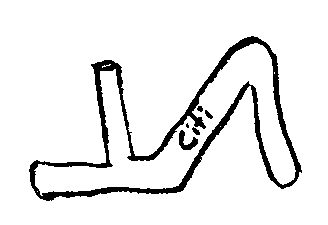
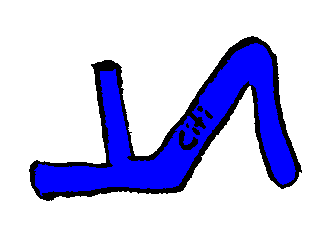
frame cleanup and finish labeling

Changed region(s): [[0.0915, 0.1867, 0.9146, 0.8711]]

diff --git a/bike.ts b/bike.ts
@@ -132,6 +132,8 @@ You can also buy cranks that double as a power meter if you want to know how muc
 const FRAME_DESCRIPTION = `
 The frame is the foundation of a bike: it's the most expensive part, affects the overall weight of the bike the most, and also sets the tone for compatibility with every other part.
 
+They come in many, many different geometries, but most frames have the same two-triangle structure to help distribute forces throughout the bike.
+
 New frames are usually aluminum alloy or carbon fibre, though some older bike frames were made of steel. Most brands have different tiers of carbon fibre at different price points and weights.
 
 Frames dictate the type of brakes used, the wheel attachment, the fork diameter and attachment style, the seatpost size, and even the bottom bracket and cranks.
@@ -515,13 +517,7 @@ function drawLabel(ctx: CanvasRenderingContext2D, labelText: string) {
     const y = 10
     ctx.fillStyle = "rgb(255,255,255)"
     ctx.fillRect(x, y, 260, 50)
-    if (false) {
-        // bottom bracket: no state
-        // process extra parts so we can label them
-        // frames
-        // cleats & pedals
-        // brake parts
-    } else if (labelText === "bearing" && LABELS.bearing) {
+    if (labelText === "bearing" && LABELS.bearing) {
         ctx.drawImage(LABELS.bearing, x, y)
     } else if (labelText === "brake" && LABELS.brake) {
         ctx.drawImage(LABELS.brake, x, y)
@@ -540,6 +536,18 @@ function drawLabel(ctx: CanvasRenderingContext2D, labelText: string) {
     } else if (labelText === "derailleur_hanger" && LABELS.derailleur && LABELS.hanger) {
         ctx.drawImage(LABELS.derailleur, x, y)
         ctx.drawImage(LABELS.hanger, x + 140, y)
+    } else if (labelText === "disc_front_view" && LABELS.disc && LABELS.brake) {
+        ctx.drawImage(LABELS.disc, x, y)
+        ctx.drawImage(LABELS.brake, x + 80, y)
+    } else if (labelText === "disc_pad" && LABELS.disc && LABELS.pad) {
+        ctx.drawImage(LABELS.disc, x, y)
+        ctx.drawImage(LABELS.pad, x + 80, y)
+    } else if (labelText === "disc_rotor" && LABELS.disc && LABELS.rotor) {
+        ctx.drawImage(LABELS.disc, x, y)
+        ctx.drawImage(LABELS.rotor, x + 80, y)
+    } else if (labelText === "flat_pedal" && LABELS.flat && LABELS.pedal) {
+        ctx.drawImage(LABELS.flat, x, y)
+        ctx.drawImage(LABELS.pedal, x + 70, y)
     } else if (labelText === "fork" && LABELS.fork) {
         ctx.drawImage(LABELS.fork, x, y)
     } else if (labelText === "frame" && LABELS.frame) {
@@ -556,8 +564,26 @@ function drawLabel(ctx: CanvasRenderingContext2D, labelText: string) {
     } else if (labelText === "rear_derailleur" && LABELS.rear && LABELS.derailleur) {
         ctx.drawImage(LABELS.rear, x, y)
         ctx.drawImage(LABELS.derailleur, x + 60, y)
+    } else if (labelText === "rim_front_view" && LABELS.rim && LABELS.brake) {
+        ctx.drawImage(LABELS.rim, x, y)
+        ctx.drawImage(LABELS.brake, x + 70, y)
+    } else if (labelText === "rim_pad" && LABELS.rim && LABELS.pad) {
+        ctx.drawImage(LABELS.rim, x, y)
+        ctx.drawImage(LABELS.pad, x + 70, y)
     } else if (labelText === "seat" && LABELS.seat) {
         ctx.drawImage(LABELS.seat, x, y)
+    } else if (labelText === "spd_cleat" && LABELS.spd && LABELS.cleat) {
+        ctx.drawImage(LABELS.spd, x, y + 5)
+        ctx.drawImage(LABELS.cleat, x + 80, y)
+    } else if (labelText === "spd_pedal" && LABELS.spd && LABELS.pedal) {
+        ctx.drawImage(LABELS.spd, x, y + 5)
+        ctx.drawImage(LABELS.pedal, x + 80, y)
+    } else if (labelText === "spd_sl_cleat" && LABELS.spdSl && LABELS.cleat) {
+        ctx.drawImage(LABELS.spdSl, x, y + 5)
+        ctx.drawImage(LABELS.cleat, x + 110, y)
+    } else if (labelText === "spd_sl_pedal" && LABELS.spdSl && LABELS.pedal) {
+        ctx.drawImage(LABELS.spdSl, x, y + 5)
+        ctx.drawImage(LABELS.pedal, x + 110, y)
     } else if (labelText === "star_nut" && LABELS.starNut) {
         ctx.drawImage(LABELS.starNut, x, y)
     } else if (labelText === "stem" && LABELS.stem) {

diff --git a/image_processing/colour_map.py b/image_processing/colour_map.py
@@ -57,6 +57,7 @@ transform("./public/bike/spd_sl_pedal.png", np.array([2, 2, 6, 255]), np.array([
 transform("./public/icons/button_unpressed.png", np.array([2, 3, 2, 255]), np.array([165, 165, 165, 255]), red_value=np.array([0, 0, 209, 255]))
 transform("./public/icons/button_pressed.png", np.array([2, 3, 2, 255]), np.array([165, 165, 165, 255]), red_value=np.array([0, 0, 209, 255]))
 transform("./public/icons/back.png", np.array([2, 3, 3, 255]), np.array([166, 166, 166, 255]), green_value=np.array([0, 209, 0, 255]))
+transform("./public/icons/info.png", np.array([2, 3, 1, 255]), np.array([253, 252, 254, 255]), blue_value=np.array([253, 122, 68, 255]))
 transform("./public/bike/spd_cleat.png", np.array([2, 3, 4, 255]), np.array([253, 252, 251, 255]))
 transform("./public/bike/spd_sl_cleat.png", np.array([2, 4, 3, 255]), np.array([253, 251, 252, 255]))
 transform("./public/bike/mtb_forks.png", np.array([2, 4, 4, 255]), np.array([253, 251, 251, 255]))
